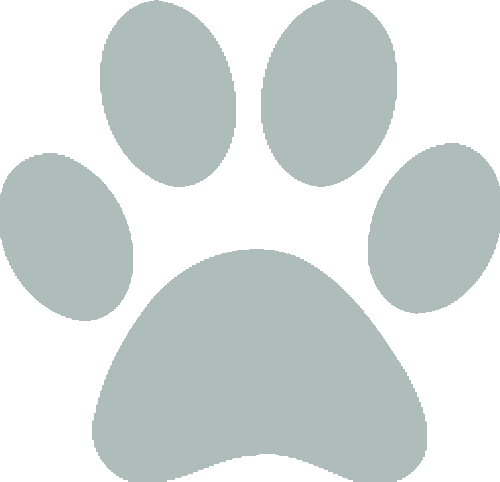
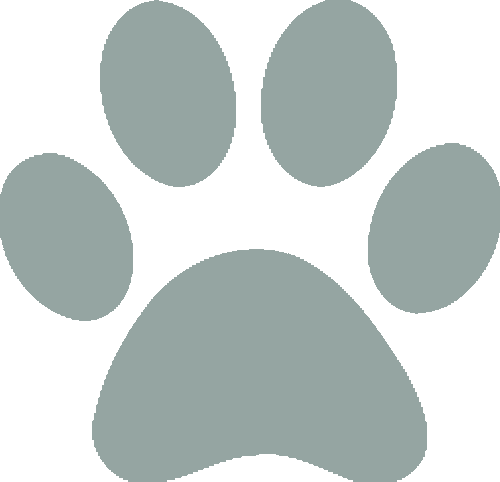
style update

diff --git a/Styling/stylesheets/updateStylesheet.css b/Styling/stylesheets/updateStylesheet.css
@@ -167,7 +167,7 @@ button:hover {
   }
 
   .slide-in:hover{
-    border-color: rgb(255, 215, 106);
+    border-color: #919d9b;
   }
 
 
